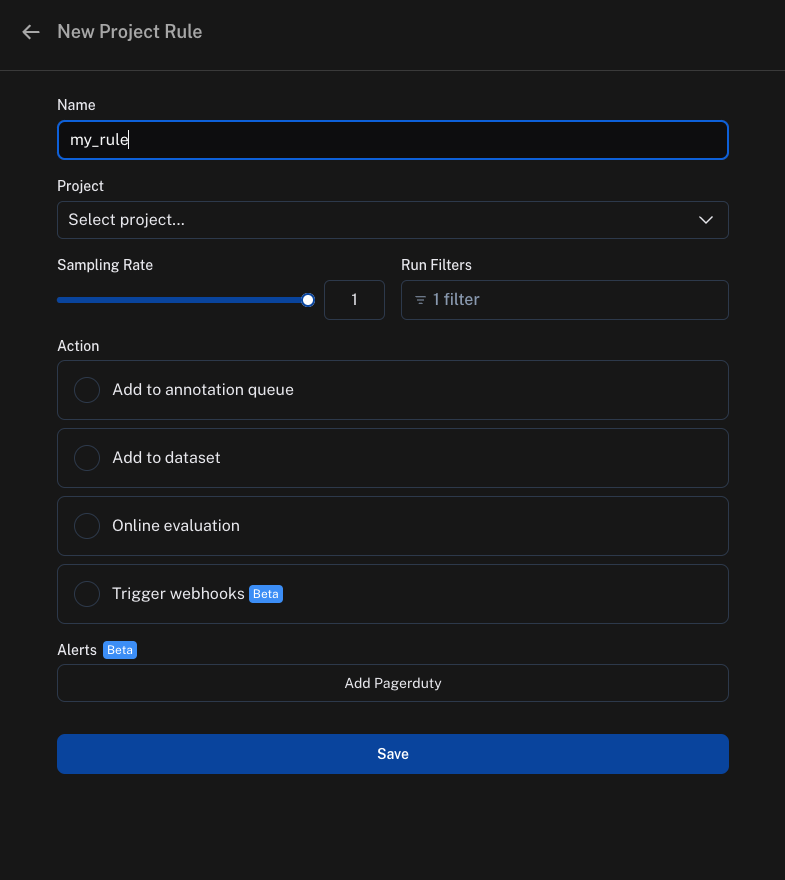
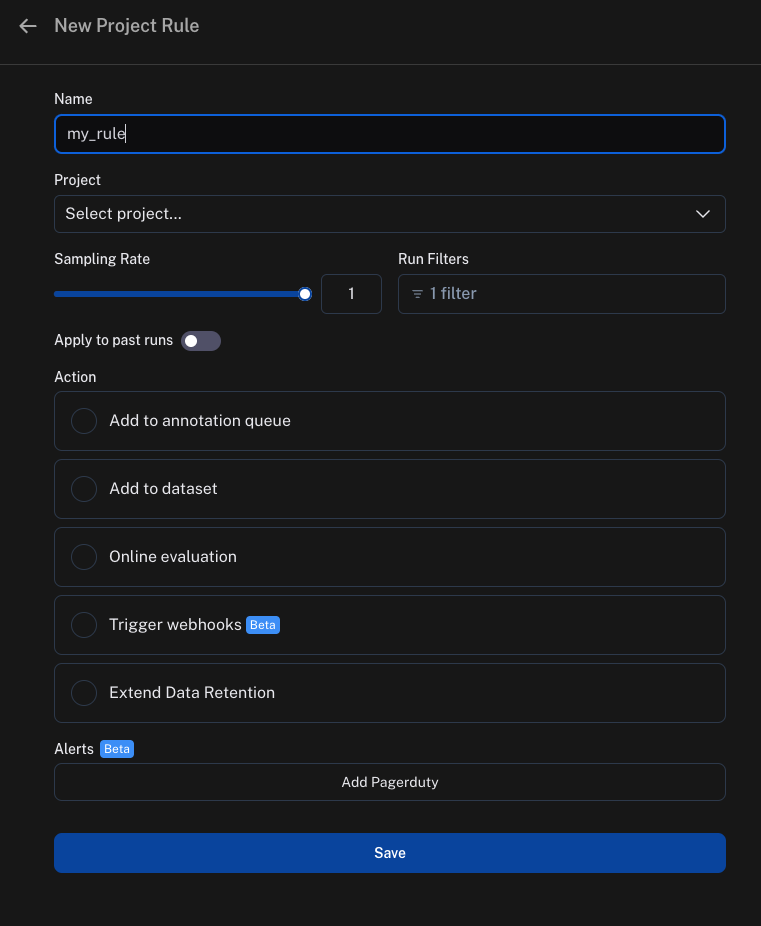
feedabck

diff --git a/versioned_docs/version-2.0/how_to_guides/index.md b/versioned_docs/version-2.0/how_to_guides/index.md
@@ -178,7 +178,6 @@ Leverage LangSmith's powerful monitoring and automations features to make sense 
 - [Set up automation rules](./how_to_guides/monitoring/rules)
   - [Create a rule](./how_to_guides/monitoring/rules#create-a-rule)
   - [View logs for your automations](./how_to_guides/monitoring/rules#view-logs-for-your-automations)
-  - [Apply Rule to Past runs](./how_to_guides/monitoring/rules#apply-rule-to-past-runs)
 - [Set up online evaluations](./how_to_guides/monitoring/online_evaluations)
   - [Configure online evaluations](./how_to_guides/monitoring/online_evaluations#configure-online-evaluations)
   - [Set API keys](./how_to_guides/monitoring/online_evaluations#set-api-keys)
